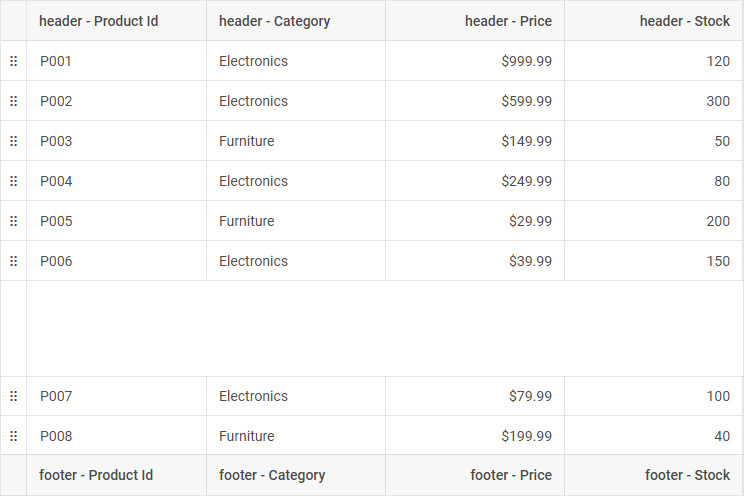
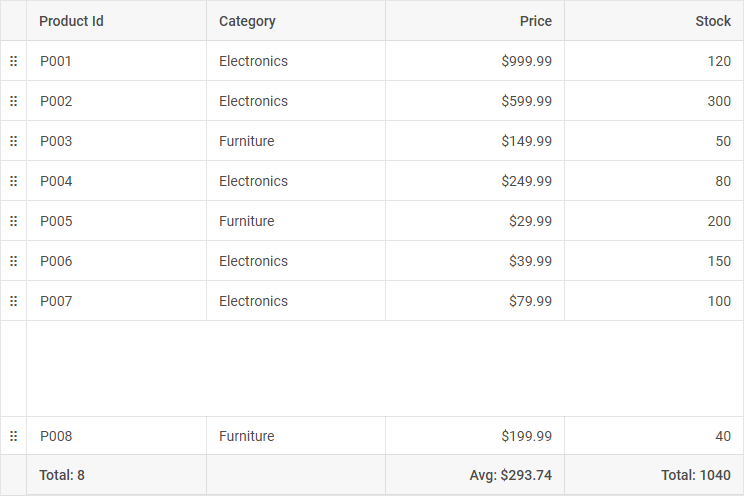
[update] complete docs for v9.3

diff --git a/docs/grid/configuration.md b/docs/grid/configuration.md
@@ -1373,7 +1373,7 @@ const grid = new dhx.Grid("grid_container", {
 
 ### Header/footer filters
 
-There are the following types of filters that you can specify in the header/footer content of a [Grid column](grid/api/grid_columns_config.md): **inputFilter**, **selectFilter**, **comboFilter**, **dateFilter** (**PRO version**).
+There are the following types of filters that you can specify in the header/footer content of a [Grid column](grid/api/grid_columns_config.md): `inputFilter`, `selectFilter`, `comboFilter`, `dateFilter` (**PRO version**).
 
 - **inputFilter** 
 
@@ -1403,7 +1403,7 @@ If you specify **inputFilter** as the header or footer content of a column, you 
 }
 ~~~ 
 
-**Related sample**: [Grid. Header filters (comboFilter, inputFilter, selectFilter, dateFilter)](https://snippet.dhtmlx.com/4qz8ng3c)
+**Related sample**: [Grid. Header filters (dateFilter, comboFilter, inputFilter, selectFilter)](https://snippet.dhtmlx.com/4qz8ng3c)
 
 - **selectFilter** 
 
@@ -1418,7 +1418,7 @@ Allows end users to filter data of a column by choosing an option from a present
 }
 ~~~
 
-**Related sample**: [Grid. Header filters (comboFilter, inputFilter, selectFilter, dateFilter)](https://snippet.dhtmlx.com/4qz8ng3c)
+**Related sample**: [Grid. Header filters (dateFilter, comboFilter, inputFilter, selectFilter](https://snippet.dhtmlx.com/4qz8ng3c)
 
 - **comboFilter**
 
@@ -1456,7 +1456,7 @@ If you specify **comboFilter** as the header or footer content of a column, you 
 }
 ~~~
 
-**Related sample**: [Grid. Header filters (comboFilter, inputFilter, selectFilter, dateFilter)](https://snippet.dhtmlx.com/4qz8ng3c)
+**Related sample**: [Grid. Header filters (dateFilter, comboFilter, inputFilter, selectFilter](https://snippet.dhtmlx.com/4qz8ng3c)
 
 - **dateFilter** 
 
@@ -1515,7 +1515,7 @@ Calendar API configuration properties:
 }
 ~~~
 
-**Related sample**: [Grid. Header filters (comboFilter, inputFilter, selectFilter, dateFilter)](https://snippet.dhtmlx.com/4qz8ng3c)
+**Related sample**: [Grid. Header filters (dateFilter, comboFilter, inputFilter, selectFilter)](https://snippet.dhtmlx.com/4qz8ng3c)
 
 ### Customizing header/footer filters
 
@@ -1548,7 +1548,7 @@ const grid = new dhx.Grid("grid_container", {
 });
 ~~~
 
-**Related sample**: [Grid. Custom filters in the header](https://snippet.dhtmlx.com/gcidkxjg)
+**Related sample**: [Grid. Custom filters in the header (dateFilter, comboFilter, inputFilter, selectFilter)](https://snippet.dhtmlx.com/gcidkxjg)
 
 ### Header/footer height
 
@@ -1602,13 +1602,17 @@ const grid2 = new dhx.Grid("grid", {
 
 ### Footer position
 
-You can define the logic of setting the position of the Grid footer as well as of the frozen rows set in the Grid configuration by the `bottomSplit` option with another Grid property `footerPosition`. The property has the following values:
+:::tip pro version only 
+This functionality requires PRO version of the DHTMLX Grid (or DHTMLX Suite) package.
+:::
+
+You can define the logic of setting the position of the Grid footer as well as of the frozen rows fixed at the Grid bottom by the [`bottomSplit`](/grid/api/grid_bottomsplit_config/) option with another Grid property [`footerPosition`](/grid/api/grid_footerposition_config/). The property has the following values:
 
 - `relative` - (default) the footer follows the content immediately. If the number of rows is small and doesn't fill the container, the footer moves up to stay attached with the last row.
 
 ![](../assets/grid/footer_relative_position.png)
 
-- `bottom` - the footer and bottom-pinned rows are strictly locked to the bottom edge of the container. They remain at the base of the component even if the content occupies only a fraction of the available height.
+- `bottom` - the footer and bottom-pinned (frozen) rows are strictly locked to the bottom edge of the container. They remain at the base of the component even if the content takes only a part of the available height.
 
 ![](../assets/grid/footer_bottom_position.png)
 
@@ -1626,8 +1630,8 @@ const grid = new dhx.Grid("grid_container", {
 ~~~ 
 
 **Related samples**:
-- [Grid. Fixed rows positioned at the bottom](https://snippet.dhtmlx.com/8n0pdqhp)
-- [Grid. Footer positioned at the bottom](https://snippet.dhtmlx.com/etg7raih)
+- [Grid. Fixed rows positioned at the bottom](https://snippet.dhtmlx.com/w5xzdjb7)
+- [Grid. Footer positioned at the bottom](https://snippet.dhtmlx.com/8sbf8b2y)
 
 ## Rows
 

diff --git a/docs/grid/features.md b/docs/grid/features.md
@@ -102,7 +102,7 @@ In this section you can learn how to configure the header and footer of Grid, ho
 | [Configuring header/footer](../api/api_gridcolumn_properties/)                    | Learn how to configure a Grid header/footer  ([Example](https://snippet.dhtmlx.com/9jl55ep7))                           |
 | [Setting the height for header and footer](../configuration/#headerfooter-height) | Learn how to set the height for rows in the header and footer of Grid  ([Example](https://snippet.dhtmlx.com/wjcjl80i)) |
 | [Setting the text for header and footer](../configuration/#headerfooter-text) | Learn how to set the text for rows in the header and footer of Grid  ([Example](https://snippet.dhtmlx.com/9jl55ep7)) |
-| [Setting the position of the footer](../configuration/#footer-position) | Learn how to set the position of the footer and bottom-pinned rows ([Example 1](https://snippet.dhtmlx.com/etg7raih), [Example 2](https://snippet.dhtmlx.com/8n0pdqhp)) |
+| [Setting the position of the footer](../configuration/#footer-position) | Learn how to set the position of the footer and bottom-pinned rows ([Example 1](https://snippet.dhtmlx.com/w5xzdjb7), [Example 2](https://snippet.dhtmlx.com/8sbf8b2y)) |
 | [Styling header cells](../customization/#styling-header-cells)                    | Learn how to set styling to the text of header cells ([Example](https://snippet.dhtmlx.com/7o4elf48))                   |
 | [Styling footer cells](../customization/#styling-footer-cells)                    | Learn how to set styling to the text of footer cells ([Example](https://snippet.dhtmlx.com/d254hcvp))                   |
 
@@ -356,7 +356,7 @@ In this section you will get to know how to export Grid to different formats.
 | Topic                                                                       | Description                                                                                                                                           |
 | --------------------------------------------------------------------------- | ----------------------------------------------------------------------------------------------------------------------------------------------------- |
 | [Exporting Grid to XLSX, CSV, PNG or PDF format](../usage/#exporting-data) | Learn how to export Grid to the necessary format ([Example 1](https://snippet.dhtmlx.com/58oqij47), [Example 2](https://snippet.dhtmlx.com/ti9l91mn)) |
-| [Extended export configuration settings](../usage/#extended-export-configuration-settings)| Learn how to provide extended configuration properties for Grid export ([Example](https://snippet.dhtmlx.com/k4wberkh))|
+| [Extended export configuration settings](../usage/#extended-export-configuration-settings)| Learn how to provide extended configuration properties for Grid export ([Example](https://snippet.dhtmlx.com/aher21cg))|
 
 ## How to localize Grid
 

diff --git a/docs/window/features.md b/docs/window/features.md
@@ -69,8 +69,8 @@ In this section you can learn how to show and hide the window, how to switch it 
 | Topic                                                                 | Description                                                                                                        |
 | --------------------------------------------------------------------- | ------------------------------------------------------------------------------------------------------------------ |
 | [Showing / hiding Window](../usage/#showinghiding-window)             | Learn how to show or hide a window on the page ([Example](https://snippet.dhtmlx.com/ee2vf9xw))                    |
-| [Setting the active Window](../usage/#setting-the-active-window)		| Learn how to set the active window ([Example](https://snippet.dhtmlx.com/lvm3kfwq))
-| [Checking visibility of a window](../usage/#checking-visibility-of-window)                 | Learn how to check whether a window is visible on the page or not ([Example](https://snippet.dhtmlx.com/woz5c09h)) |
+| [Setting the active state](../usage/#setting-the-active-state)		| Learn how to set the active state of Window ([Example](https://snippet.dhtmlx.com/lvm3kfwq))
+| [Checking visibility of a window](../usage/#checking-visibility-of-window)  | Learn how to check whether a window is visible on the page or not ([Example](https://snippet.dhtmlx.com/woz5c09h)) |
 | [Switching Window to the full screen mode](../usage/#fullscreen-mode) | Learn how to display a window in the full screen mode ([Example](https://snippet.dhtmlx.com/aftti5fy))             |
 | [Setting / getting Window position](../usage/#positioning-window)     | Learn how to set/get the position of a window on the fly ([Example](https://snippet.dhtmlx.com/hc3ronrk))          |
 | [Setting / getting Window size](../usage/#sizing-window)              | Learn how to change and get the size of a window dynamically ([Example](https://snippet.dhtmlx.com/0zqxydvm))      |
@@ -105,7 +105,7 @@ In this section you will learn about common functionality of the library which c
 | ------------------------------------------------------------- | ------------------------------------------------------------------------------------- |
 | [Touch support](../../common_features/touch_support/)         | Learn how to work with touch support ([Example](https://snippet.dhtmlx.com/q3cu6x1a)) |
 | [TypeScript support](../../common_features/using_typescript/) | Learn how to work with TypeScript                                                     |
-| [AwaitRedraw](../../helpers/await_redraw/)                    | Learn how to perform the code after the component’s rendering                         |
+| [AwaitRedraw](../../helpers/await_redraw/)                    | Learn how to perform the code after the component's rendering                         |
 
 ## Any questions left?
 

diff --git a/docs/grid/api/grid_footerposition_config.md b/docs/grid/api/grid_footerposition_config.md
@@ -6,7 +6,11 @@ description: You can explore the footerPosition config of Grid in the documentat
 
 # footerPosition
 
-@short: Optional. Defines the positioning logic for the `footer` and bottom-pinned rows (`bottomSplit`) within the component container
+:::tip pro version only 
+This functionality requires PRO version of the DHTMLX Grid (or DHTMLX Suite) package.
+:::
+
+@short: Optional. Defines the positioning logic for the footer and bottom-pinned rows within the component container
 
 @signature: {'footerPosition?: "bottom" | "relative";'}
 
@@ -26,12 +30,12 @@ const grid = new dhx.Grid("grid_container", {
 The property has the following values:
 
 - `relative` - the footer follows the content immediately. If the number of rows is small and doesn't fill the container, the footer moves up to stay attached to the last row.
-- `bottom` - the footer and bottom-pinned rows are strictly locked to the bottom edge of the container. They remain at the base of the component even if the content occupies only a fraction of the available height.
+- `bottom` - the footer and [bottom-pinned rows](/grid/api/grid_bottomsplit_config/) are strictly locked to the bottom edge of the container. They remain at the base of the component even if the content occupies only a fraction of the available height.
 
 @changelog: added in v9.3
 
 **Related sample**:
-- [Grid. Fixed rows positioned at the bottom](https://snippet.dhtmlx.com/8n0pdqhp)
-- [Grid. Footer positioned at the bottom](https://snippet.dhtmlx.com/etg7raih)
+- [Grid. Fixed rows positioned at the bottom](https://snippet.dhtmlx.com/w5xzdjb7)
+- [Grid. Footer positioned at the bottom](https://snippet.dhtmlx.com/8sbf8b2y)
 
 **Related article**: [Configuration](/grid/configuration/#footer-position)

diff --git a/docs/grid/api/grid_exportconfig_config.md b/docs/grid/api/grid_exportconfig_config.md
@@ -33,8 +33,10 @@ exportConfig?: (config: IGridConfig, exportType: "pdf" | "png" | "csv" | "xlsx")
 
 The `exportConfig` property is a callback function that takes the following parameters:
 
-- `config` -  (*IGridConfig*) the current configuration of a Grid instance
-- `exportType` - (*string*) the type of export being performed: "pdf", "png", "csv", or "xlsx"
+| Parameter         | Description                                                                       |
+|------------------ |---------------------------------------------------------------------------------- |
+|  `config`         | (*IGridConfig*) the current configuration of a Grid instance                      |
+|  `exportType`     | (*string*) the type of export being performed: "pdf", "png", "csv", or "xlsx"     |
 
 and returns a configuration object with export parameters. The returned configuration object may contain the following properties:
 
@@ -160,7 +162,7 @@ The `exportConfig` property extends the possibilities of the standard export and
 - **define format-specific settings**: set delimiters for CSV, date masks for Excel, or visual themes for PDF
 - **adjust styling**: override Grid properties (such as row height) specifically for the exported file 
 
-**Related sample**: [Grid. Custom export logic for PDF, PNG, XLSX, CSV](https://snippet.dhtmlx.com/k4wberkh)
+**Related sample**: [Grid. Custom export logic for PDF, PNG, XLSX, CSV](https://snippet.dhtmlx.com/aher21cg)
 
 **Related article**: [Extended export configuration settings](/grid/usage/#extended-export-configuration-settings)
 

diff --git a/docs/tree/configuration.md b/docs/tree/configuration.md
@@ -127,13 +127,13 @@ const tree = new dhx.Tree("tree_container", {
 });
 ~~~
 
-**Related sample**: [Tree. Adding tooltips for the items](https://snippet.dhtmlx.com/7j097ht4)
+**Related sample**: [Tree. Tooltip template](https://snippet.dhtmlx.com/kswil8cl)
 
-The [`tooltip`](/tree/api/tree_tooltip_config/) property can take the following types of values:
+The [`tooltip`](/tree/api/tree_tooltip_config/) property can have the following types of values:
 
-- `boolean` — if `true`, enables the standard tooltip (the value is taken from the [`value`](/tree/api/tree_data_config/) property of the item)
-- `function` — a template function that returns the string content of the tooltip
-- `object` — a configuration object for detailed customization of the tooltip's behavior and appearance. The available properties are given below:
+- *boolean* — if `true`, enables the standard tooltip (the value is taken from the [`value`](/tree/api/tree_data_config/) property of the item)
+- *function* — a template function that returns the string content of the tooltip
+- *object* — a configuration object for detailed customization of the tooltip's behavior and appearance. The available properties are given below:
     - `template` - (optional) a function that determines the content of the tooltip. It takes two arguments:
         - `item` - (*object*) the data object of a tree item.
         - `event` - (*object*) the native mouse event (MouseEvent). 

diff --git a/docs/whatsnew.md b/docs/whatsnew.md
@@ -23,7 +23,7 @@ Released on February , 2026
 - Grid. A new [`dateFilter`](/grid/configuration/#headerfooter-filters) type of filter for the column header is added (PRO version)
 - Tree. The ability to [add tooltips for the items](/tree/configuration/#tooltips-for-items)
     - new Tree configuration property: [`tooltip`](/tree/api/tree_tooltip_config/)
-- Window. The ability to [set the active window](/window/usage/#setting-the-active-window) 
+- Window. The ability to [set a window to the active state](/window/usage/#setting-the-active-state) 
     - new Window method: [`setActive()`](/window/api/window_setactive_method/)
 
 ### Updates
@@ -45,9 +45,9 @@ Released on February , 2026
 #### Grid
 
 - [Grid. Custom export logic for PDF, PNG, XLSX, CSV](https://snippet.dhtmlx.com/aher21cg)
-- [Grid. Fixed rows positioned at the bottom](https://snippet.dhtmlx.com/jsc1tbgc)
-- [Grid. Footer positioned at the bottom](https://snippet.dhtmlx.com/ivmm2j89)
-- [Grid (TreeGrid). Drop behavior](https://snippet.dhtmlx.com/o2v3pcg0)
+- [Grid. Fixed rows positioned at the bottom](https://snippet.dhtmlx.com/w5xzdjb7)
+- [Grid. Footer positioned at the bottom](https://snippet.dhtmlx.com/8sbf8b2y)
+- [Grid (TreeGrid). Drop behaviour](https://snippet.dhtmlx.com/o2v3pcg0)
 
 #### Tree
 

diff --git a/docs/tree/api/tree_tooltip_config.md b/docs/tree/api/tree_tooltip_config.md
@@ -26,10 +26,11 @@ tooltip?:
     }
 ~~~
 
-@values:
-- `boolean` — if `true`, enables the standard tooltip (the value is taken from the [`value`](/tree/api/tree_data_config/) property of the item)
-- `function` — a template function that returns the string content of the tooltip
-- `object` — a configuration object for detailed customization of the tooltip's behavior and appearance. Check the available properties below
+The property can have three types of values: 
+
+- *boolean* — if `true`, enables the standard tooltip (the value is taken from the [`value`](/tree/api/tree_data_config/) property of the item)
+- *function* — a template function that returns the string content of the tooltip
+- *object* — a configuration object for detailed customization of the tooltip's behavior and appearance. Check the available properties below
 
 @params:
 
@@ -81,7 +82,7 @@ const tree = new dhx.Tree("tree_container", {
 });
 ~~~
 
-**Related sample**: [Tree. Adding tooltips for the items](https://snippet.dhtmlx.com/7j097ht4)
+**Related sample**: [Tree. Tooltip template](https://snippet.dhtmlx.com/kswil8cl)
 
 **Related article**: [Configuration](/tree/configuration/#tooltips-for-items)
 

diff --git a/docs/grid/usage.md b/docs/grid/usage.md
@@ -585,8 +585,10 @@ Unlike the standard export, [`exportConfig`](/grid/api/grid_exportconfig_config/
 
 The `exportConfig` property is a callback function that takes the following parameters:
 
-- `config` -  (*IGridConfig*) the current configuration of a Grid instance
-- `exportType` - (*string*) the type of export being performed: "pdf", "png", "csv", or "xlsx"
+| Parameter         | Description                                                                       |
+|------------------ |---------------------------------------------------------------------------------- |
+|  `config`         | (*IGridConfig*) the current configuration of a Grid instance                      |
+|  `exportType`     | (*string*) the type of export being performed: "pdf", "png", "csv", or "xlsx"     |
 
 The returned configuration object may contain the following properties:
 
@@ -701,7 +703,7 @@ const grid = new dhx.Grid("grid_container", {
 });
 ~~~
 
-**Related sample**: [Grid. Custom export logic for PDF, PNG, XLSX, CSV](https://snippet.dhtmlx.com/k4wberkh)
+**Related sample**: [Grid. Custom export logic for PDF, PNG, XLSX, CSV](https://snippet.dhtmlx.com/aher21cg)
 
 ## Grouping data
 

diff --git a/docs/tree/features.md b/docs/tree/features.md
@@ -53,7 +53,7 @@ In this section you can find out how to configure drag-n-drop in Tree, how to en
 | [Copying items during drag-n-drop](../drag_and_drop_handling/) | Learn how to copy an item to a target during drag-n-drop ([Example](https://snippet.dhtmlx.com/xm0lxbpj))              |
 | [Enabling/disabling key navigation](../configuration/#key-navigation)  | Learn how to enable and disable key navigation ([Example](https://snippet.dhtmlx.com/icql8fwq))           |
 | [Activating inline editing](../configuration/#editing-of-items) | Learn how to activate inline editing on Tree initialization ([Example](https://snippet.dhtmlx.com/hyfz6ai7))          |
-| [Enabling and configuring tooltips](../configuration/#tooltips-for-items) | Learn how to enable and configure tooltips for Tree items ([Example](https://snippet.dhtmlx.com/7j097ht4))          |
+| [Enabling and configuring tooltips](../configuration/#tooltips-for-items) | Learn how to enable and configure tooltips for Tree items ([Example](https://snippet.dhtmlx.com/kswil8cl))          |
 
 ## How to customize Tree and change its size
 

diff --git a/docs/window/usage.md b/docs/window/usage.md
@@ -84,7 +84,7 @@ dhxWindow.hide();
 
 **Related sample**: [Window. Showing / hiding Window](https://snippet.dhtmlx.com/ee2vf9xw)
 
-## Setting the active window
+## Setting the active state
 
 While working with several windows, you may need to make a particular window active and bring it to the top. You can apply the [`setActive()`](/window/api/window_setactive_method/) method to the necessary window for this purpose.
 
@@ -115,7 +115,7 @@ window2.show(); // Window 2 is currently on top
 window1.setActive();
 ~~~
 
-**Related sample**: [Window. Setting the active window](https://snippet.dhtmlx.com/lvm3kfwq)
+**Related sample**: [Window. Setting the active state](https://snippet.dhtmlx.com/lvm3kfwq)
 
 The key advantage of this method is that the activation occurs **without re-rendering the content**. This ensures that the DOM state, such as form input values, scroll positions, or media playback, remains completely intact.
 

diff --git a/docs/grid/api/grid_dropbehaviour_config.md b/docs/grid/api/grid_dropbehaviour_config.md
@@ -41,6 +41,6 @@ There are three modes of behaviour of a dragged item, depending on the value set
 - "sibling" - a dragged item becomes a sibling of the item it is dragged to
 - "complex" - a dragged item can become both a child or a sibling of a target item, depending on the position specified by highlighting 
 
-**Related sample**: [Grid (TreeGrid). Drop behaviour](https://snippet.dhtmlx.com/l5waxyqe)
+**Related sample**: [Grid (TreeGrid). Drop behaviour](https://snippet.dhtmlx.com/o2v3pcg0)
 
 **Related article**: [Drop behaviour](/grid/treegrid_mode/#drop-behaviour)
